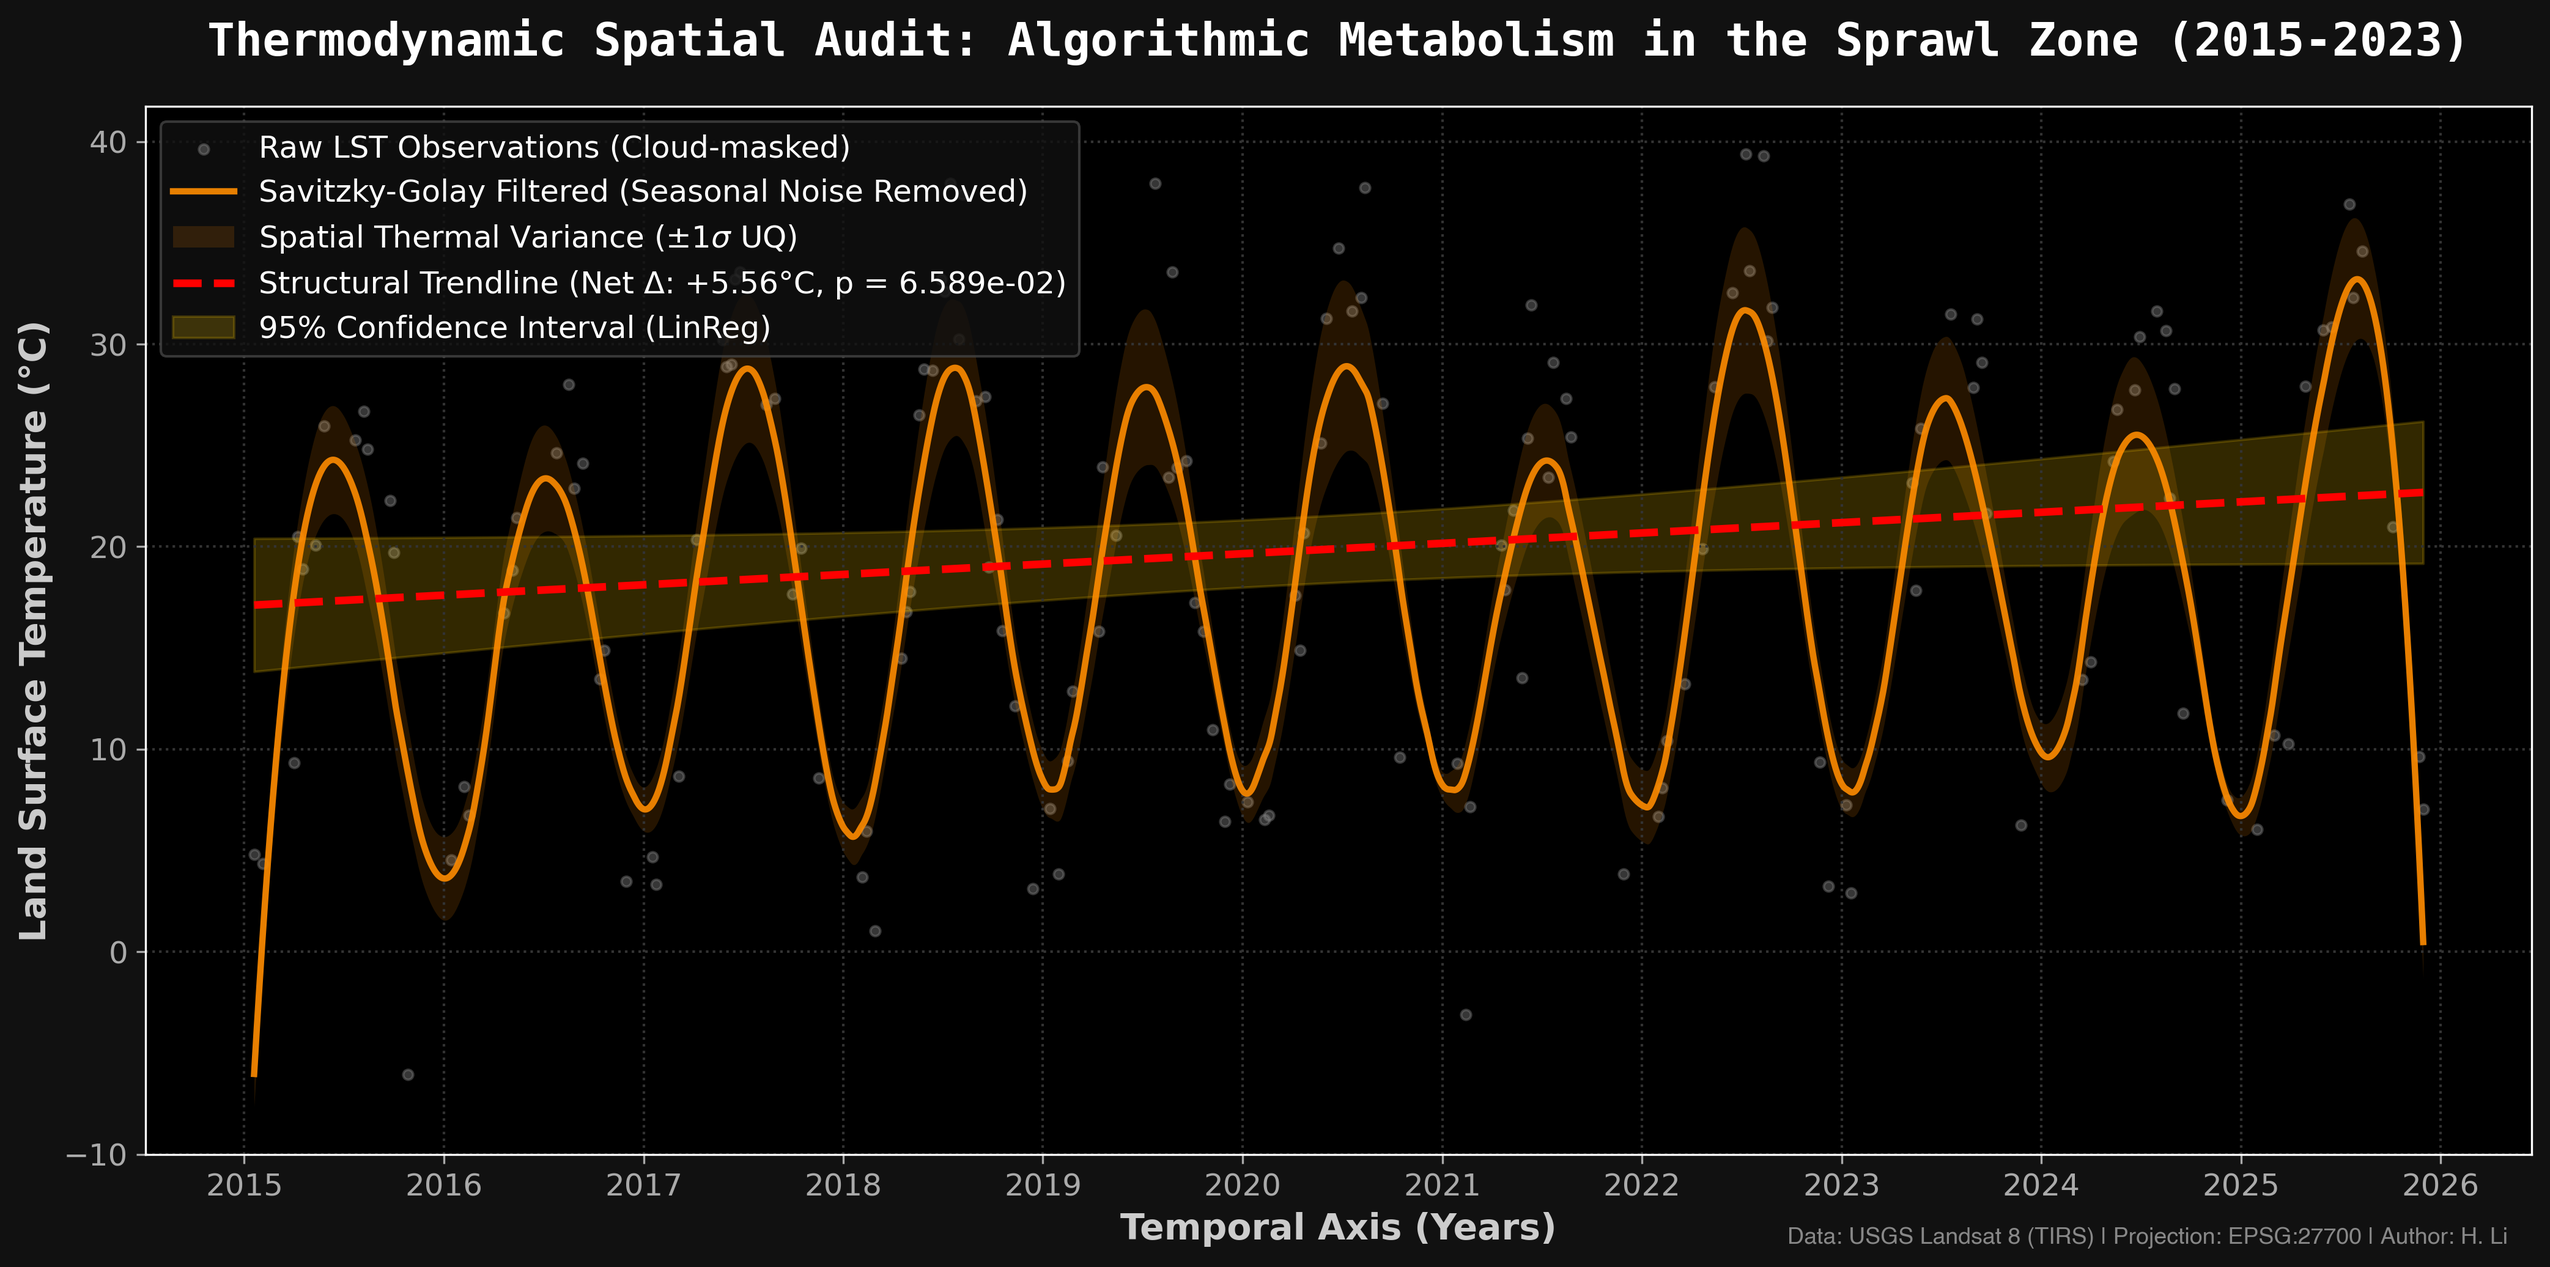
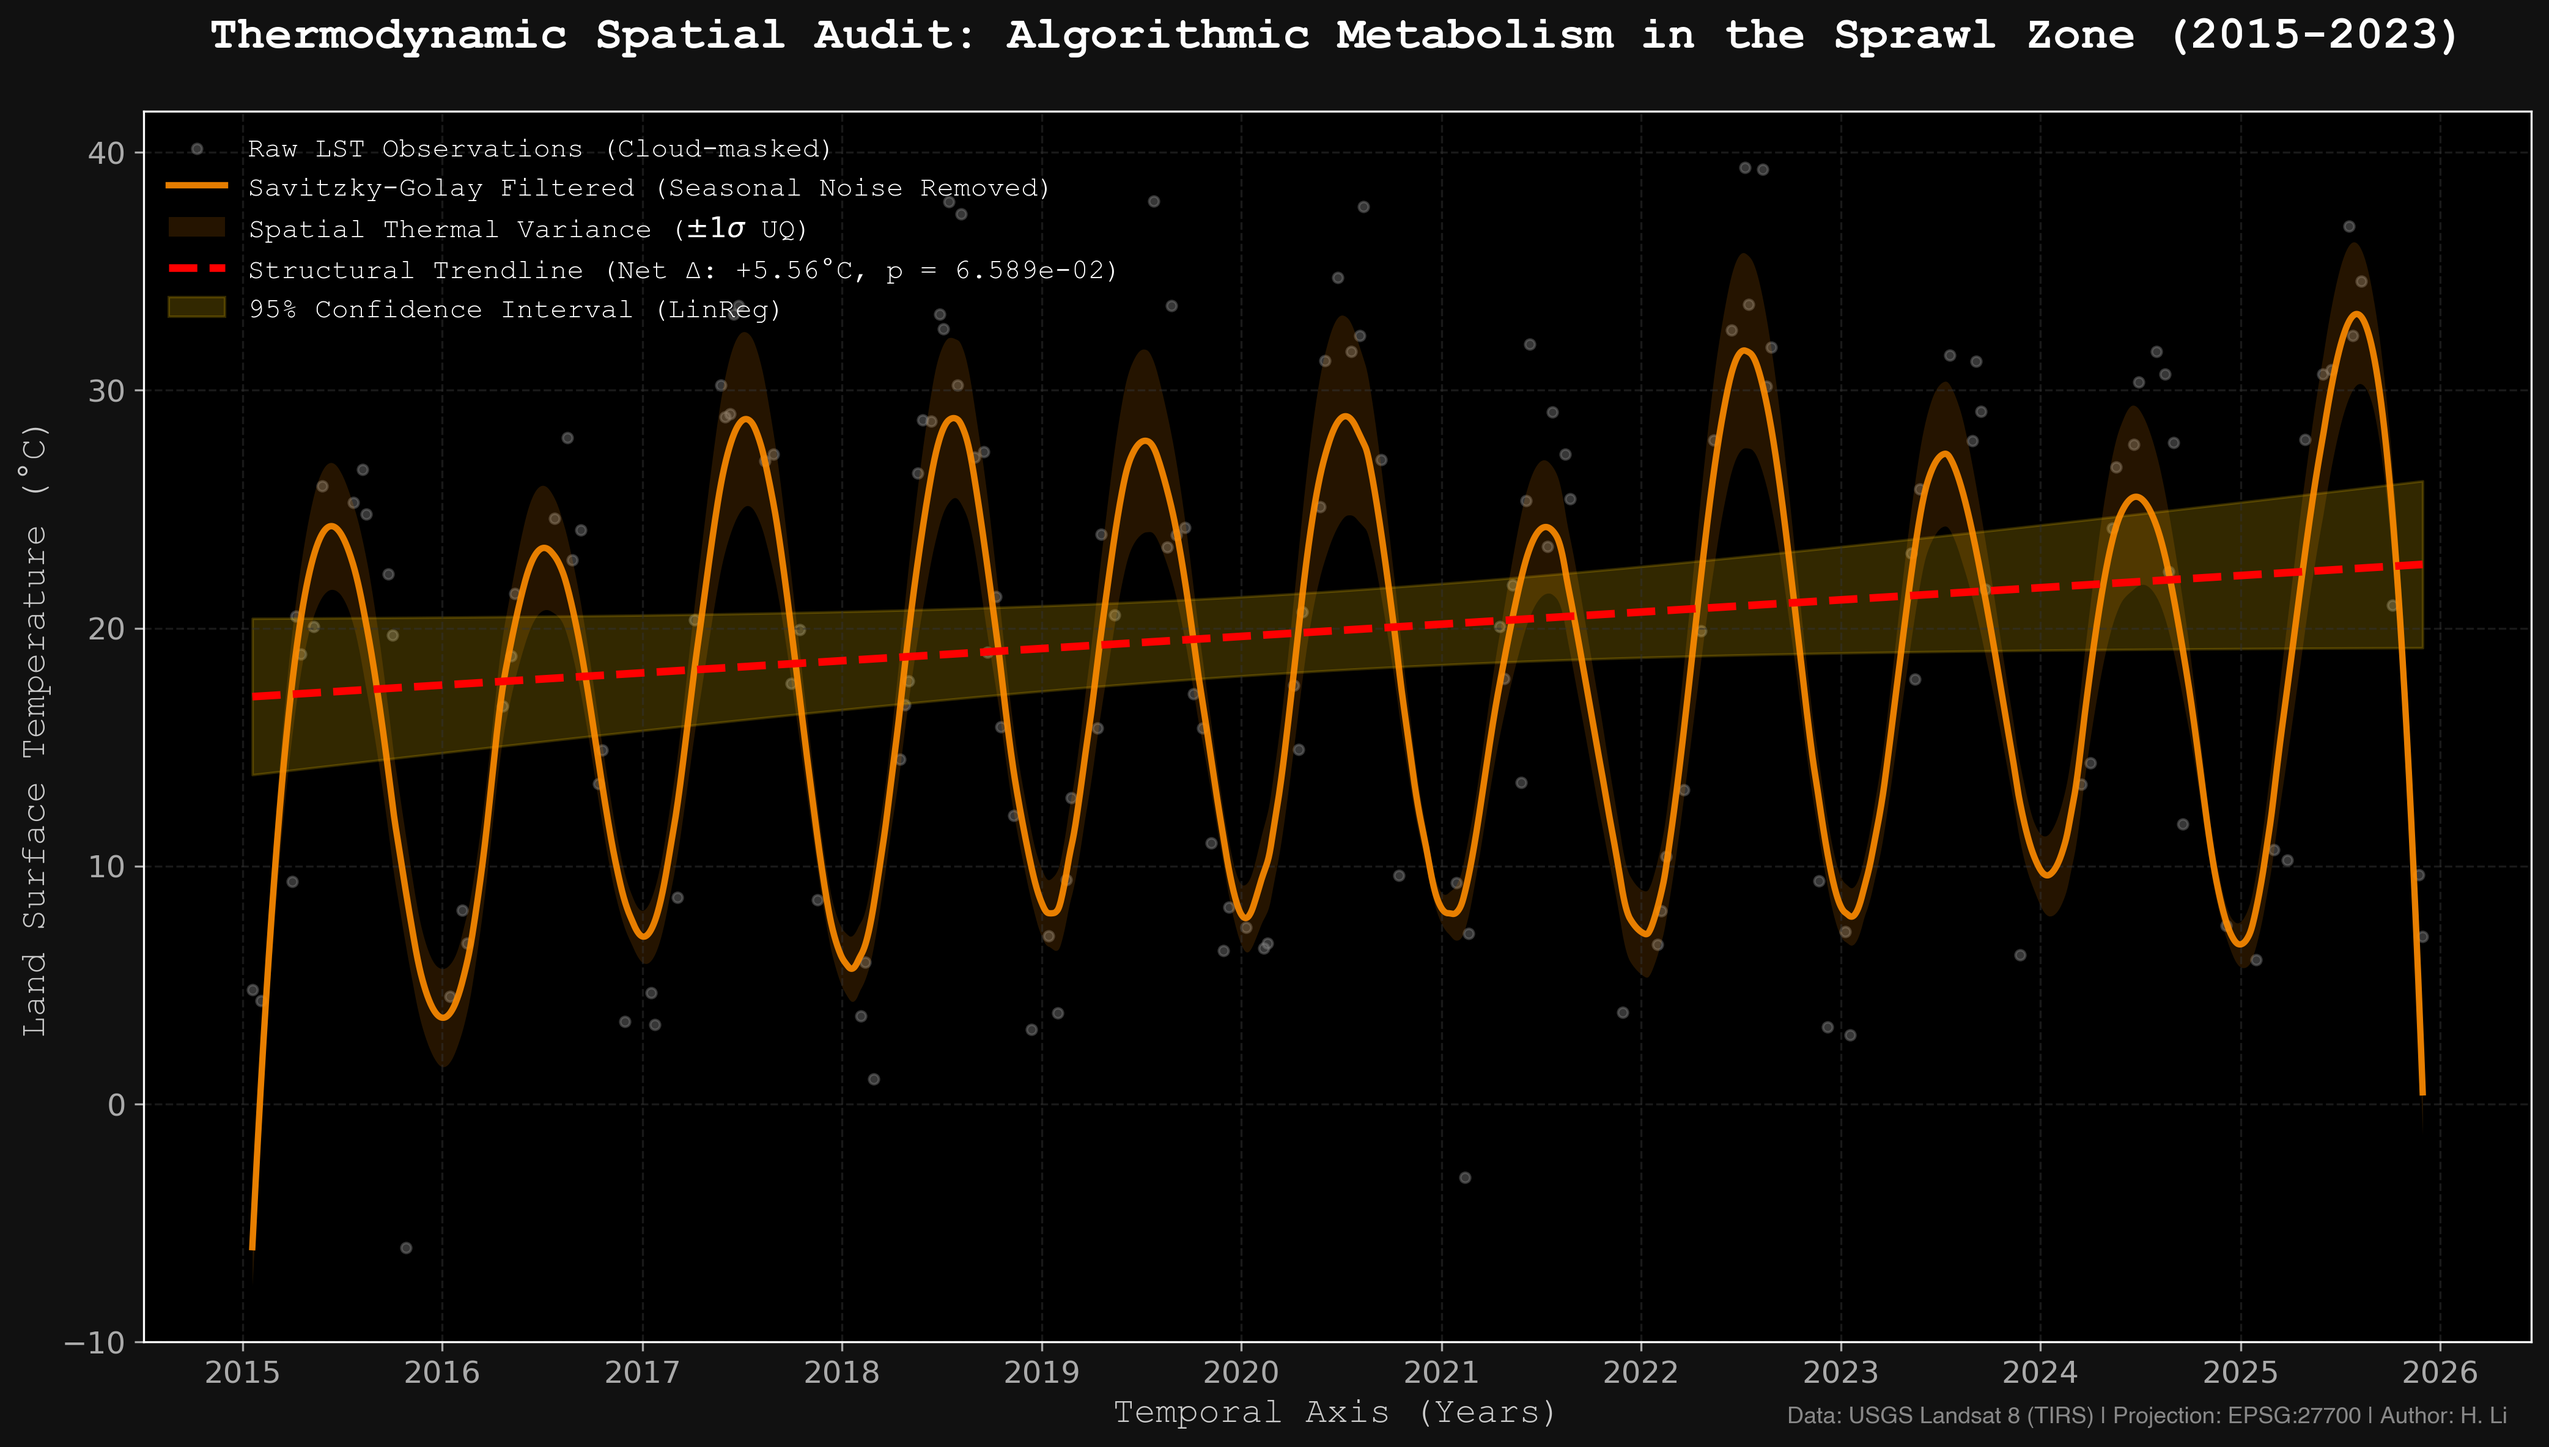
style(viz): synchronize thermal chart typography and layout with NDVI baseline - Aligned LST canvas to exactly 14x8 at 400 DPI. - Ported font structure to 'Courier New' to unify the forensic aesthetic. - Standardized grid dash-patterns and transparent frames in legends to match NDVI outputs. - Fixed

diff --git a/scripts/07_plot_thermal_chart.py b/scripts/07_plot_thermal_chart.py
@@ -86,7 +86,7 @@ def render_thermodynamic_chart(csv_path, output_image_path):
 
     # 绘图
     plt.style.use('dark_background')
-    fig, ax = plt.subplots(figsize=(14, 7), dpi=300)
+    fig, ax = plt.subplots(figsize=(14, 8), dpi=400)
     
     ax.scatter(df.index, df['LST_Celsius'], color='#888888', alpha=0.4, s=15, 
                label='Raw LST Observations (Cloud-masked)')
@@ -95,7 +95,7 @@ def render_thermodynamic_chart(csv_path, output_image_path):
             
     # Uncertainty Quantification (UQ) Error Band (± 1 StdDev)
     ax.fill_between(df_daily.index, df_daily['LST_Lower'], df_daily['LST_Upper'],
-                    color='#FF8C00', alpha=0.15, label='Spatial Thermal Variance ($\pm 1\sigma$ UQ)', linewidth=0)
+                    color='#FF8C00', alpha=0.15, label=r'Spatial Thermal Variance ($\pm 1\sigma$ UQ)', linewidth=0)
             
     # 新增：合并了净增温和统计显著性的统一趋势线
     ax.plot(df.index, y_pred, color='#FF0000', linestyle='--', linewidth=3, 
@@ -104,15 +104,15 @@ def render_thermodynamic_chart(csv_path, output_image_path):
     ax.fill_between(df.index, y_ci_lower, y_ci_upper, color='#FFCC00', alpha=0.2, label='95% Confidence Interval (LinReg)')
 
     ax.set_title('Thermodynamic Spatial Audit: Algorithmic Metabolism in the Sprawl Zone (2015-2023)', 
-                 fontsize=18, fontweight='bold', color='white', pad=20, fontfamily='monospace')
-    ax.set_ylabel('Land Surface Temperature (°C)', fontsize=14, fontweight='bold', color='#CCCCCC')
-    ax.set_xlabel('Temporal Axis (Years)', fontsize=14, fontweight='bold', color='#CCCCCC')
+                 fontsize=18, fontweight='bold', fontname='Courier New', color='white', pad=25)
+    ax.set_ylabel('Land Surface Temperature (°C)', fontsize=14, fontname='Courier New', color='#CCCCCC')
+    ax.set_xlabel('Temporal Axis (Years)', fontsize=14, fontname='Courier New', color='#CCCCCC')
     
     ax.xaxis.set_major_formatter(mdates.DateFormatter('%Y'))
     ax.xaxis.set_major_locator(mdates.YearLocator())
     ax.tick_params(axis='both', which='major', labelsize=12, colors='#AAAAAA')
-    ax.grid(True, color='#333333', linestyle=':', linewidth=1)
-    ax.legend(loc='upper left', fontsize=12, frameon=True, facecolor='#111111', edgecolor='#444444')
+    ax.grid(True, color='#333333', linestyle='--', linewidth=0.8, alpha=0.5)
+    ax.legend(loc='upper left', frameon=False, prop={'family': 'Courier New', 'size': 11})
 
     # 添加数据源署名
     fig.text(0.98, 0.02, 'Data: USGS Landsat 8 (TIRS) | Projection: EPSG:27700 | Author: H. Li', 
